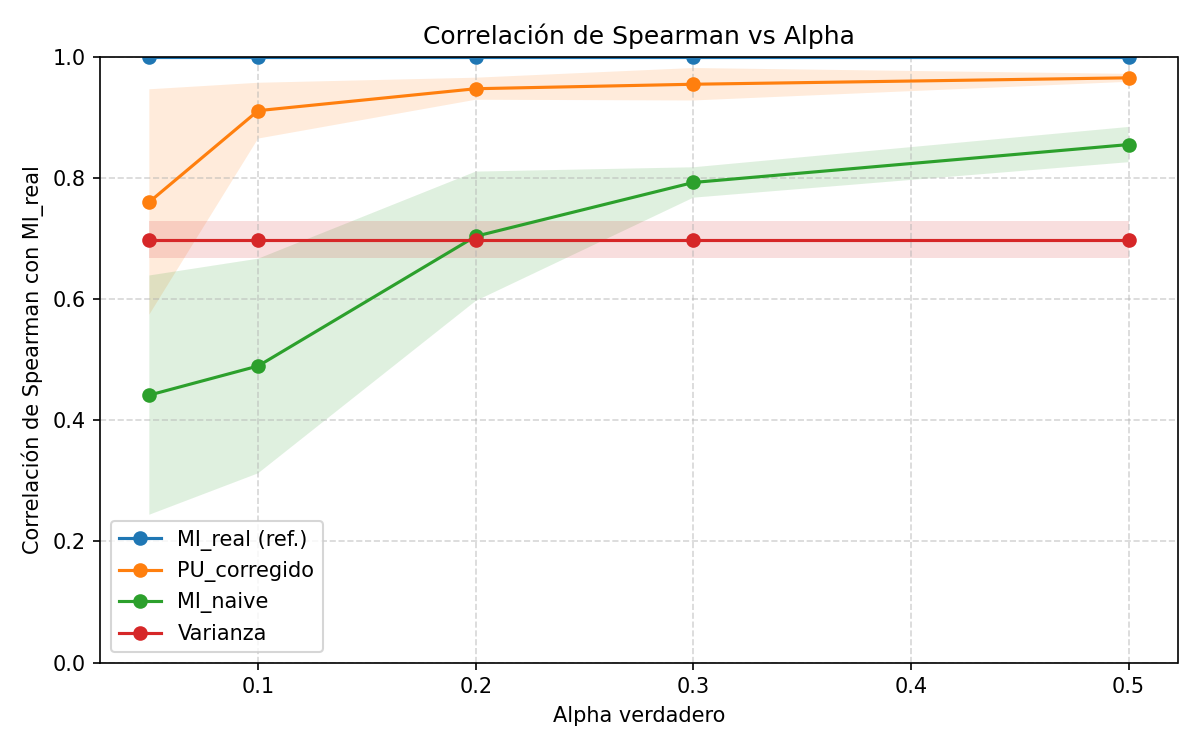
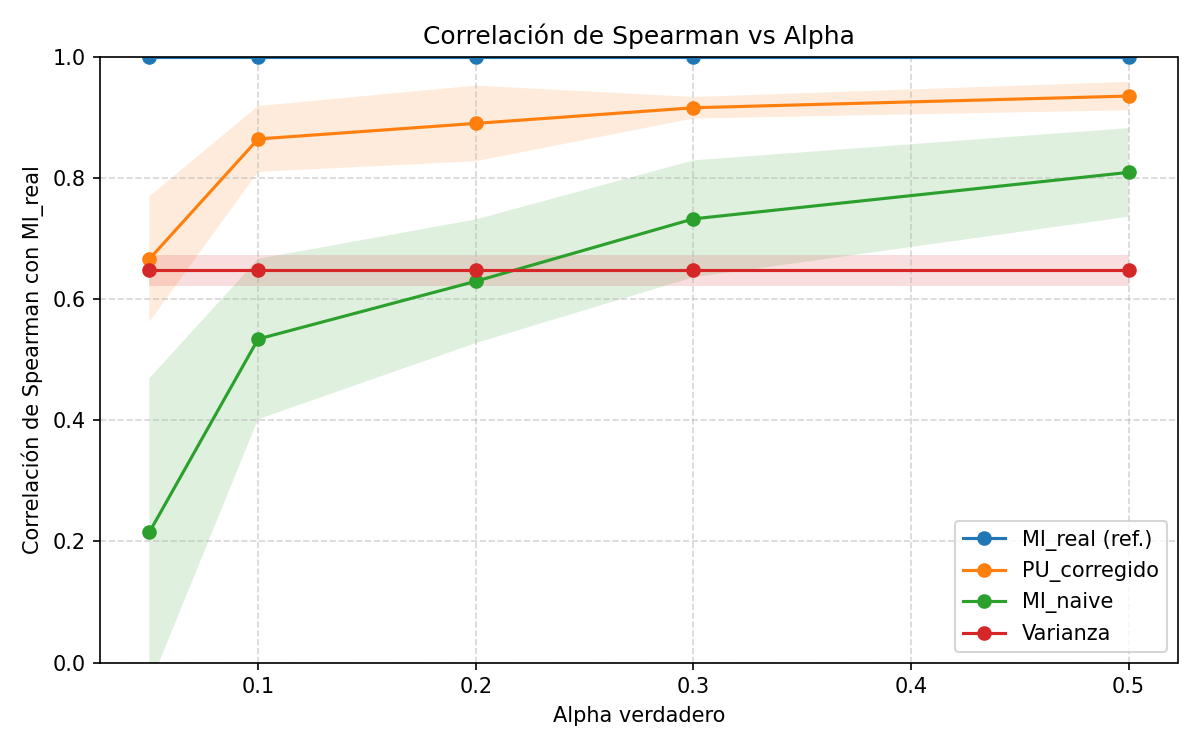
Añadir ruido gaussiano al dataset

Changed region(s): [[0.0925, 0.092, 0.9558, 0.552], [0.0925, 0.4907, 0.3083, 0.8893], [0.8017, 0.7053, 0.9867, 0.8587]]

diff --git a/main.py b/main.py
@@ -8,7 +8,7 @@ from sklearn.datasets import load_breast_cancer
 
 from sklearn.model_selection import train_test_split
 
-from src.data_utiles import generar_etiquetas_pu
+from src.data_utiles import generar_etiquetas_pu, añadir_ruido_gaussiano
 from src.config import *
 from src.pu_model import entrenar_clasificador_pu, estimar_alpha, obtener_scores, estimar_probabilidad_real
 from src.mi_utiles import calcular_mi_ranking, guardar_ranking
@@ -43,6 +43,7 @@ def main():
     with mlflow.start_run(run_name=RUN_NAME):
         mlflow.log_param("dataset", "breast_cancer")
         mlflow.log_param("run_mode", RUN_MODE)
+        mlflow.log_param("noise_level", NOISE_LEVEL)
         if RUN_MODE != 'sweep':
             mlflow.log_param("alpha_true", ALPHA_TRUE)
             mlflow.log_param("random_state", RANDOM_STATE)
@@ -52,6 +53,9 @@ def main():
 
         for alpha in alphas:
             for seed in seeds:
+                # Añadir ruido gaussiano a X para este seed (noise_level=0 → sin cambios)
+                X_noisy = añadir_ruido_gaussiano(X, NOISE_LEVEL, random_state=seed)
+
                 # Generar escenario PU
                 S = generar_etiquetas_pu(y, alpha, random_state=seed)
                 if RUN_MODE == 'single':
@@ -59,21 +63,21 @@ def main():
                     mlflow.log_metric("n_unlabeled", int(len(S) - sum(S)))
 
                 # Entrenar modelo PU
-                modelo = entrenar_clasificador_pu(X, S, random_state=seed)
+                modelo = entrenar_clasificador_pu(X_noisy, S, random_state=seed)
                 if RUN_MODE == 'single':
                     mlflow.sklearn.log_model(modelo, "pu_model")
 
-                # Estimar alpha (sobre todo X; el modelo PU usa S, no y)
-                scores = obtener_scores(modelo, X)
+                # Estimar alpha (sobre todo X_noisy; el modelo PU usa S, no y)
+                scores = obtener_scores(modelo, X_noisy)
                 alpha_hat = estimar_alpha(scores, S)
                 if RUN_MODE == 'single':
                     mlflow.log_metric("alpha_estimated", float(alpha_hat))
 
-                # Probabilidad real estimada sobre todo X; split train/test en un solo paso
+                # Probabilidad real estimada sobre todo X_noisy; split train/test en un solo paso
                 # para garantizar alineación. Rankings se calcularán SOLO sobre train.
                 p_y = estimar_probabilidad_real(scores, alpha_hat)
                 X_train, X_test, y_train, y_test, S_train, S_test, p_y_train, _ = \
-                    train_test_split(X, y, S, p_y, test_size=0.3, random_state=seed, stratify=y)
+                    train_test_split(X_noisy, y, S, p_y, test_size=0.3, random_state=seed, stratify=y)
                 mi_scores, ranking = calcular_mi_ranking(
                     X_train, p_y_train, metodo="regresion", random_state=seed
                 )

diff --git a/src/data_utiles.py b/src/data_utiles.py
@@ -1,5 +1,33 @@
 import numpy as np
 
+def añadir_ruido_gaussiano(X, noise_level, random_state=None):
+    """
+    Añade ruido gaussiano a las features, proporcional a la std de cada columna.
+    Esto simula un escenario más exigente manteniendo la escala relativa.
+
+    Parámetros
+    ----------
+    X : np.ndarray, shape (n_muestras, n_features)
+        Matriz de features original.
+    noise_level : float
+        Fracción de la std de cada feature que se usa como desviación del ruido.
+        0 → sin ruido; 0.5 → 50 % de la std; 1.0 → 100 % de la std.
+    random_state : int o None
+        Semilla para reproducibilidad.
+
+    Devuelve
+    -------
+    X_noisy : np.ndarray
+        Matriz con ruido añadido (no modifica X original).
+    """
+    if noise_level == 0:
+        return X.copy()
+    rng = np.random.default_rng(random_state)
+    std_por_feature = np.std(X, axis=0)
+    ruido = rng.normal(0, noise_level * std_por_feature, size=X.shape)
+    return X + ruido
+
+
 def generar_etiquetas_pu(y, alpha, random_state=None):
     """
     Genera etiquetas Positive–Unlabeled (PU) a partir de etiquetas reales

diff --git a/src/config.py b/src/config.py
@@ -8,6 +8,9 @@ ALPHA_TRUE = 0.2
 SWEEP_ALPHAS = [0.5, 0.3, 0.2, 0.1, 0.05]
 SWEEP_SEEDS = [0, 1, 2, 3, 4]
 
+# Ruido gaussiano en features (0 = sin ruido; p.ej. 0.3 = 30% de la std por feature)
+NOISE_LEVEL = 0.5
+
 # Parámetros generales
 TOP_K = 10
 EXPERIMENT_NAME = "breast_cancer"
